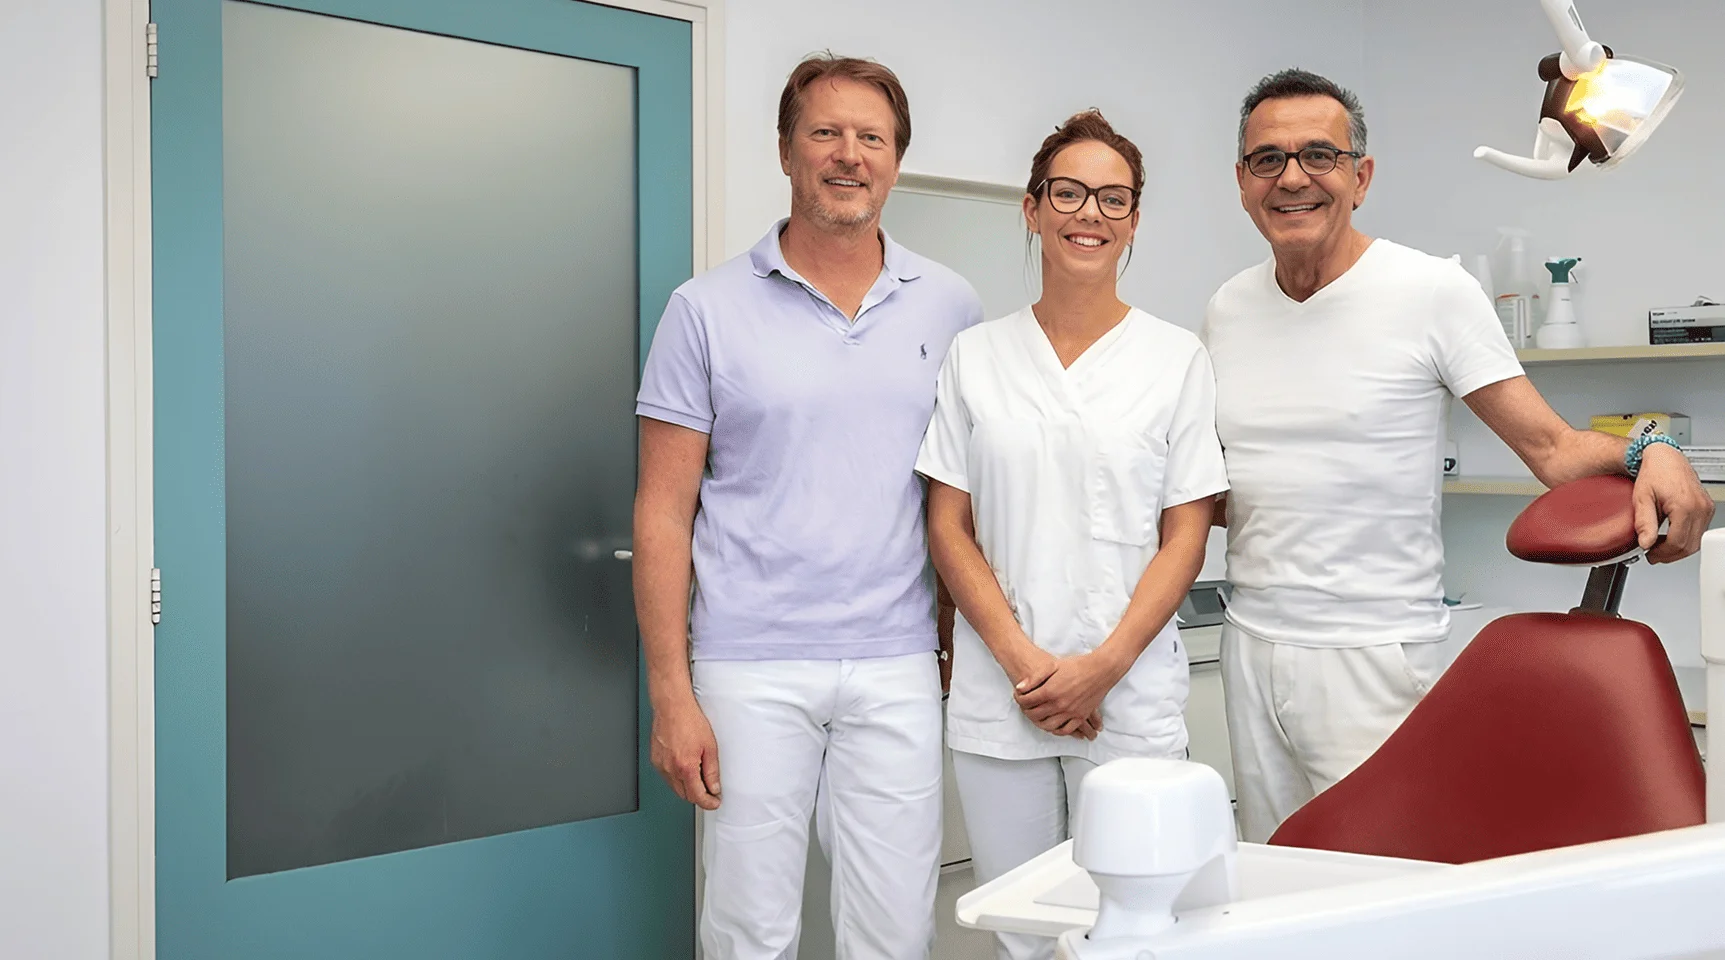
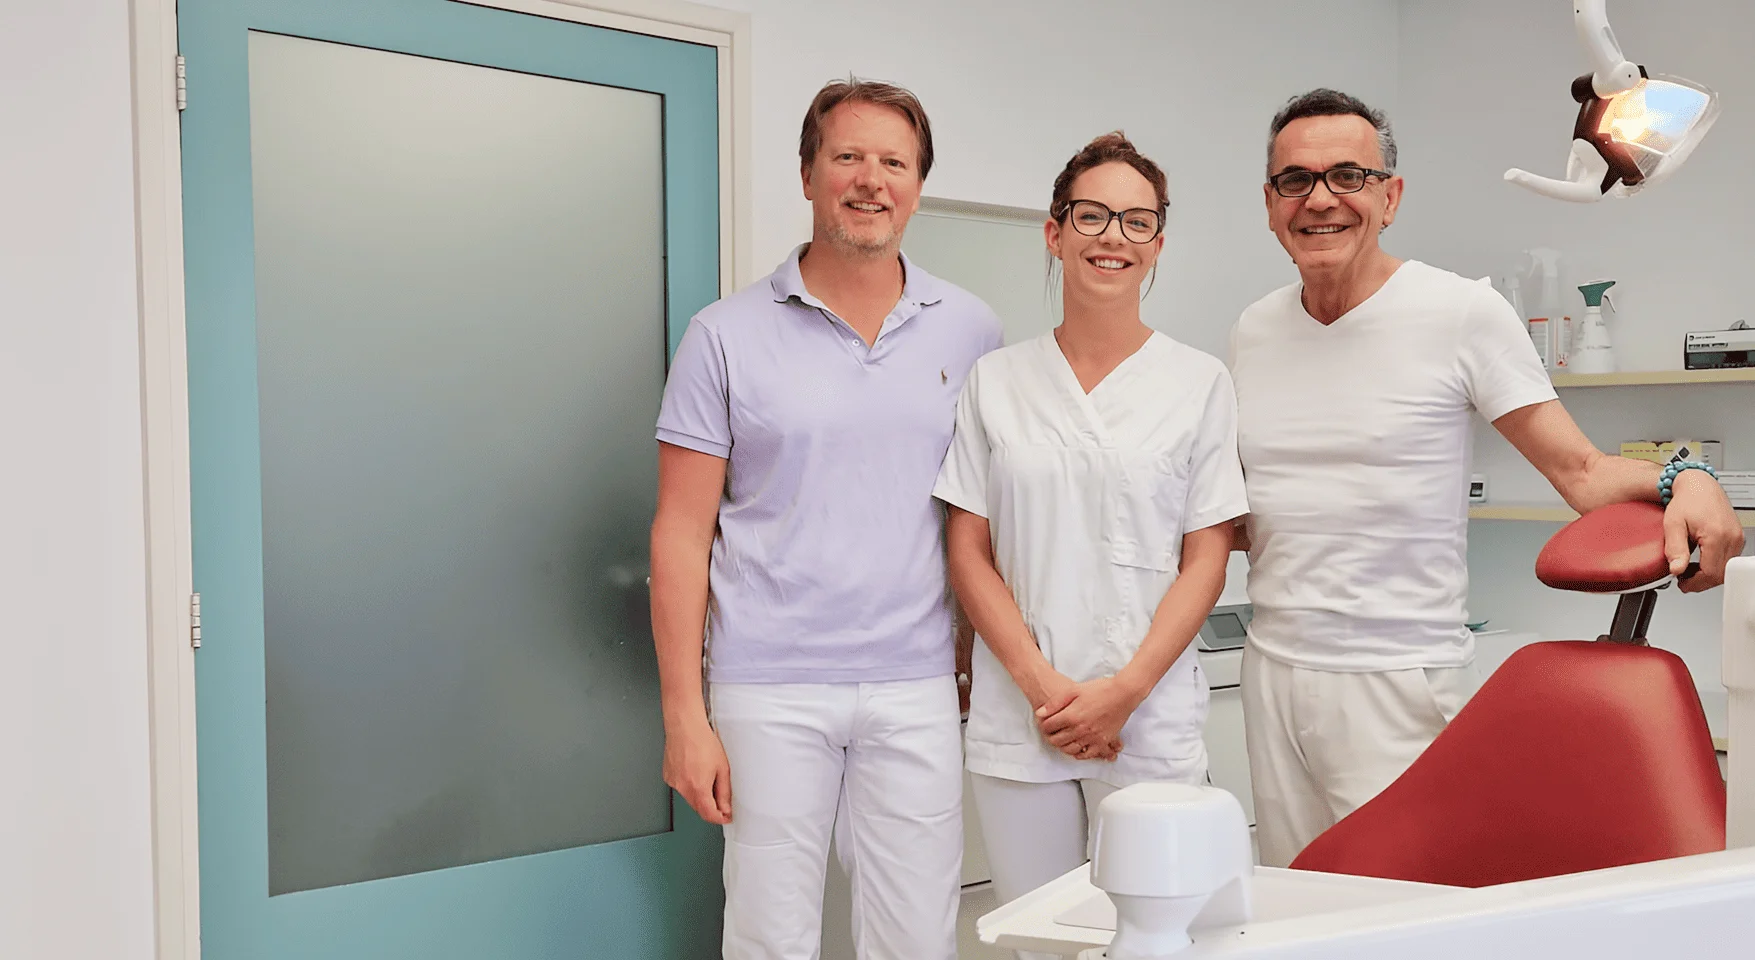
minor content fixes

diff --git a/data/pages/about/nl.ts b/data/pages/about/nl.ts
@@ -72,7 +72,7 @@ export default {
       {
         id: 'hose-sabouri',
         name: 'Hose Sabouri',
-        role: 'Kliniekdirecteur, gespecialiseerd in implantologie en gebitsprotheses',
+        role: 'Kliniekdirecteur, gespecialiseerd in implantologie en gebitsprothesen',
         image: {
           src: '/images/about/team-hose-sabouri.webp',
           alt: 'Hose Sabouri, kliniekdirecteur van Ariadent',
@@ -98,17 +98,6 @@ export default {
         image: {
           src: '/images/about/team-amy-molenaar.webp',
           alt: 'Amy Molenaar, assistent bij Ariadent',
-          width: 520,
-          height: 760,
-        },
-      },
-      {
-        id: 'jennifer-bijl',
-        name: 'Jennifer Bijl',
-        role: 'Assistent',
-        image: {
-          src: '/images/about/team-jennifer-bijl.webp',
-          alt: 'Jennifer Bijl, assistent bij Ariadent',
           width: 520,
           height: 760,
         },

diff --git a/data/pages/about/en.ts b/data/pages/about/en.ts
@@ -102,17 +102,6 @@ export default {
           height: 760,
         },
       },
-      {
-        id: 'jennifer-bijl',
-        name: 'Jennifer Bijl',
-        role: 'Assistant',
-        image: {
-          src: '/images/about/team-jennifer-bijl.webp',
-          alt: 'Jennifer Bijl, assistant at Ariadent clinic',
-          width: 520,
-          height: 760,
-        },
-      },
     ],
   },
   clinicSpace: {

diff --git a/data/pages/address/nl.ts b/data/pages/address/nl.ts
@@ -13,7 +13,7 @@ export default {
         id: 'public-transport',
         title: 'Met het openbaar vervoer',
         description: [
-          'Onze kliniek ligt vlak bij de halte Hugo de Vrieslaan.',
+          'Onze kliniek ligt vlak bij de halte Middenweg.',
           'Het dichtstbijzijnde treinstation is Amsterdam Amstel, op ongeveer 15 minuten loopafstand.',
         ],
         icon: {

diff --git a/app/components/sections/AboutPageHeroSection.vue b/app/components/sections/AboutPageHeroSection.vue
@@ -90,7 +90,7 @@ const titleDisplay = computed(() => props.compactTitle
     position: absolute;
     z-index: 2;
     border-radius: inherit;
-    background: linear-gradient(90deg, #8CD9F4 34.22%, rgba(140, 217, 244, 0) 61.77%);
+    background: linear-gradient(90deg, #8CD9F4 30%, rgba(140, 217, 244, 0) 57.5%);
     content: '';
     inset: 0;
     pointer-events: none;

diff --git a/app/components/sections/AboutTeamSection.vue b/app/components/sections/AboutTeamSection.vue
@@ -47,7 +47,8 @@ defineProps({
 .about-team__grid {
   display: grid;
   margin-top: 5.1rem;
-  grid-template-columns: repeat(4, minmax(0, 1fr));
+  grid-template-columns: repeat(3, 26rem);
+  justify-content: center;
   gap: 4rem;
 
   @media (max-width: $tablet) {
